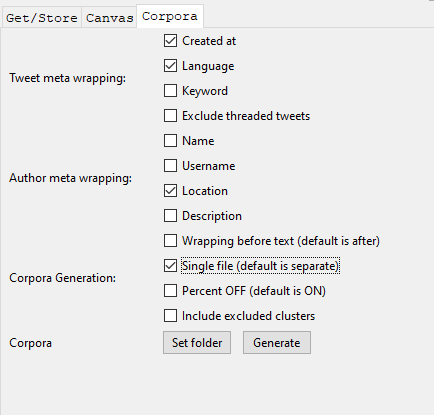
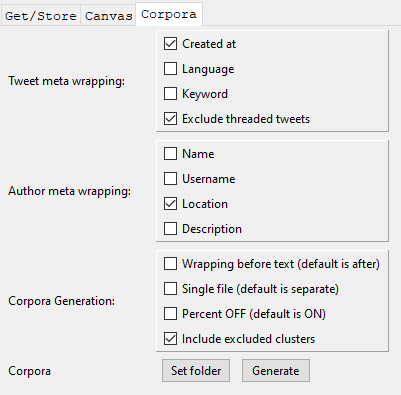
Documenting TweetEmbedExplorer. Added some visual grouping to Checkboxes.py

diff --git a/keyword_explorer/Apps/TweetEmbedExplorer.py b/keyword_explorer/Apps/TweetEmbedExplorer.py
@@ -54,7 +54,7 @@ class EmbeddingsExplorer(AppBase):
 
     def setup_app(self):
         self.app_name = "EmbeddingsExplorer"
-        self.app_version = "10.13.22"
+        self.app_version = "11.8.22"
         self.geom = (600, 620)
         self.oai = OpenAIComms()
         self.tkws = TweetKeywords()
@@ -112,7 +112,7 @@ class EmbeddingsExplorer(AppBase):
     def build_create_corpora_tab(self, tab: ttk.Frame):
         label_width = 20
         row = 0
-        self.tweet_option_checkboxes = Checkboxes(tab, row, "Tweet meta wrapping:", label_width=label_width)
+        self.tweet_option_checkboxes = Checkboxes(tab, row, "Tweet meta wrapping:", label_width=label_width, border=True)
         # cb = self.tweet_option_checkboxes.add_checkbox("Randomize", self.randomize_callback, dir=DIR.ROW)
         # ToolTip(cb, "Randomly select the starting time for each day so that a full pull won't go into tomorrow")
         cb = self.tweet_option_checkboxes.add_checkbox("Created at", lambda : self.set_corpora_flag_callback("tweet_created_at_flag"), dir=DIR.ROW)
@@ -124,7 +124,7 @@ class EmbeddingsExplorer(AppBase):
         cb = self.tweet_option_checkboxes.add_checkbox("Exclude threaded tweets", lambda: self.set_corpora_flag_callback("exclude_thread_flag"), dir=DIR.ROW)
         ToolTip(cb.cb, "Excludes tweets that are in threads connected\nto a tweet containing the keyword")
         row = self.tweet_option_checkboxes.get_next_row()
-        self.author_option_checkboxes = Checkboxes(tab, row, "Author meta wrapping:", label_width=label_width)
+        self.author_option_checkboxes = Checkboxes(tab, row, "Author meta wrapping:", label_width=label_width, border=True)
         cb = self.author_option_checkboxes.add_checkbox("Name", lambda: self.set_corpora_flag_callback("name_flag"), dir=DIR.ROW)
         ToolTip(cb.cb, "Adds the tweet author's name to the tweet meta-wrapping")
         cb = self.author_option_checkboxes.add_checkbox("Username", lambda: self.set_corpora_flag_callback("username_flag"), dir=DIR.ROW)
@@ -134,7 +134,7 @@ class EmbeddingsExplorer(AppBase):
         cb = self.author_option_checkboxes.add_checkbox("Description", lambda: self.set_corpora_flag_callback("description_flag"), dir=DIR.ROW)
         ToolTip(cb.cb, "Adds the tweet author's self-description to the tweet meta-wrapping")
         row = self.author_option_checkboxes.get_next_row()
-        self.generation_options = Checkboxes(tab, row, "Corpora Generation:", label_width=label_width)
+        self.generation_options = Checkboxes(tab, row, "Corpora Generation:", label_width=label_width, border=True)
         cb = self.generation_options.add_checkbox("Wrapping before text (default is after)", lambda: self.set_corpora_flag_callback("wrap_after_text_flag"), dir=DIR.ROW)
         ToolTip(cb.cb, "Check to place the meta-wrapping before the tweet text")
         cb = self.generation_options.add_checkbox("Single file (default is separate)", lambda: self.set_corpora_flag_callback("single_file_flag"), dir=DIR.ROW)

diff --git a/keyword_explorer/tkUtils/Checkboxes.py b/keyword_explorer/tkUtils/Checkboxes.py
@@ -34,14 +34,19 @@ class Checkboxes():
     parent:'tk.Frame'
     check_list:List
 
-    def __init__(self, parent:tk.Frame, row:int, label:str, label_width:int=20, sticky="nsew"):
+    def __init__(self, parent:tk.Frame, row:int, label:str, label_width:int=20, sticky="nsew", border:bool = False):
         self.parent = parent
         self.row = row
         self.tk_label = tk.Label(parent, text=label, width=label_width, anchor="w")
 
-        self.wrapper = tk.Frame(parent)
-        self.tk_label.grid(column=0, row=row, sticky="w", padx=5)
-        self.wrapper.grid(column=1, row=row, sticky=sticky)
+        if border:
+            self.wrapper = tk.Frame(parent, borderwidth = 1,  relief=tk.RIDGE)
+            self.tk_label.grid(column=0, row=row, sticky="w", padx=5)
+            self.wrapper.grid(column=1, row=row, sticky=sticky, pady = 4)
+        else:
+            self.wrapper = tk.Frame(parent)
+            self.tk_label.grid(column=0, row=row, sticky="w", padx=5)
+            self.wrapper.grid(column=1, row=row, sticky=sticky)
 
         self.check_list = []
         self.btn_col = 0

diff --git a/markup/TweetEmbedExplorer.md b/markup/TweetEmbedExplorer.md
@@ -54,6 +54,7 @@ This tab handles the generation and storing of text embeddings. The app uses GPT
 
 The _Update DB_ row handles additional items that can be added to the database. The **Reduced+Clusters** and **Clusters** store data that is generated in the _Canvas_ tab. The **Topic Names** button is currently nonfunctional, but will use the GPT-3 to come up with human-readable cluster names. The **Users** button causes the user associated with each tweet to be downloaded from Twitter. This is important for getting location, since tweets rarely have that information associated with them.
 <br/>
+<br/>
 ![tweet-embed-get-store](../images/tweet_embed_get_store.png)
 
 ### Canvas Tab
@@ -62,11 +63,19 @@ The _Canvas_ tab is the most complex, with a lot of capability. The first row co
 
 Once the 2D mapping is generated, then the embedding can be displayed using the **Plot** button. This brings up a [matplotlib scatter plot](https://matplotlib.org/stable/api/_as_gen/matplotlib.pyplot.scatter.html) that allows for a quick evaluation of the current state of the embeddings.
 
-Once the embedding looks satisfactory, it can be clustered using [DBSCAN](https://scikit-learn.org/stable/modules/generated/sklearn.cluster.DBSCAN.html)  by clicking on the **Cluster** button (more here)
+Once the embedding looks satisfactory, it can be clustered using [DBSCAN](https://scikit-learn.org/stable/modules/generated/sklearn.cluster.DBSCAN.html)  by clicking on the **Cluster** button. Clustering depends on two values, [**EPS**](https://stats.stackexchange.com/questions/225655/what-is-the-interpretation-of-eps-parameter-in-dbscan-clustering) which specifies how close points should be to each other to be considered a part of a cluster. If thedistance between two points is lower or equal to the EPS, then the points are considered neighbors. The other value is **Min Samples**, which is the number of close points needed to be considered a cluster. The minimum value is three. Adjusting these values and re-rendering with **Plot** can allow you to quickly determine good clustering values (see below)
 
-**Explore**, **Limit**, and then **Exclude**
+![PyPlot-Cluster](../images/pyplot_cluster.png)
 
-Lastly, the **Retrieve** button can pull all embedding information from the database for new analysis or corpora generation
+The **Explore**  button brings up an interactive space to explore the embedding. It is _much_ slower than PyPlot, because you can click on the points and see what the tweets are and what cluster they belong to. By using the **Limit** field, a sampling of the points will be used. The default of 1,000 is often enough to provide a useful interface. 
+
+The **Exclude Cluster** field and button allow you to explore individual nodes. In the figure below, you can see that a tweet in cluster 19 has been clicked. Three things happen when a node is clicked. It turns red, the text of the tweet is shown in the Console, and the cluster id is shown in the text field. If the **Exclude** button is pressed, that cluster ID will be added to a table of excluded clusters. The entire cluster then turns black to indicate that it is marked as excluded. Then generating a training corpus, these flagged clusters can be _excluded_ from the training set.
+<br/>
+<br/>
+![exclude-cluster](../images/exclude.png)
+
+Lastly, the **Retrieve** button can pull all previous embedding information from the database for new analysis or corpora generation. This lets you revisit your data and adjust over multiple sessions
+<br/>
 <br/>
 ![tweet-embed-canvas](../images/tweet_embed_canvas.png)
 
@@ -77,4 +86,13 @@ Lastly, the **Retrieve** button can pull all embedding information from the data
 Once a model test train corpora has been created, you can finetune a GPT model to generate new tweets that are similar to the training set. A trained model has been shown to be able to accurately predict, for example, the vegetarian preferences of Yelp reviewers when all vegetarian data has been excluded from the test/train data (https://arxiv.org/abs/2204.07483). This means that you can train a model on a set of tweets that may not contain the explicit information you are looking for (e.g. how a target group might react to a new product) and the model will still be able to generate tweets that are likely to contain that information.
 
 To train a model, follow these directions: [How to train a model](../markup/model_train.md).
+
+The checkboxes allow the corpora to configured in particular ways:
+
+#### Tweet meta wrapping
+
+#### Author meta wrapping
+
+#### Corpora Generation
+
 
